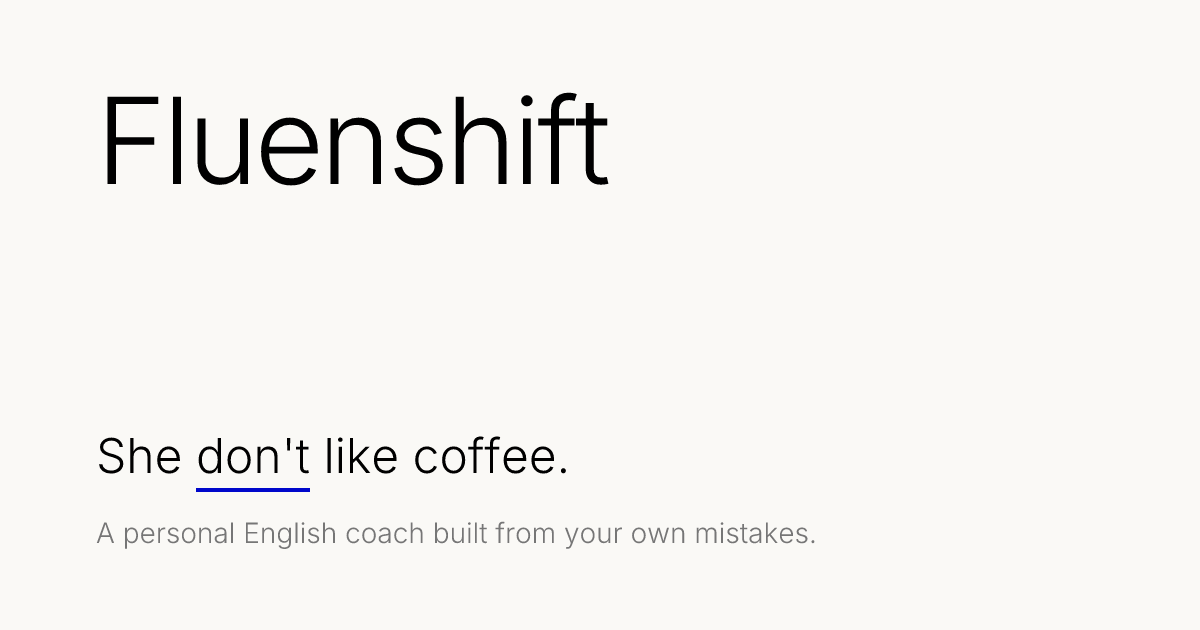
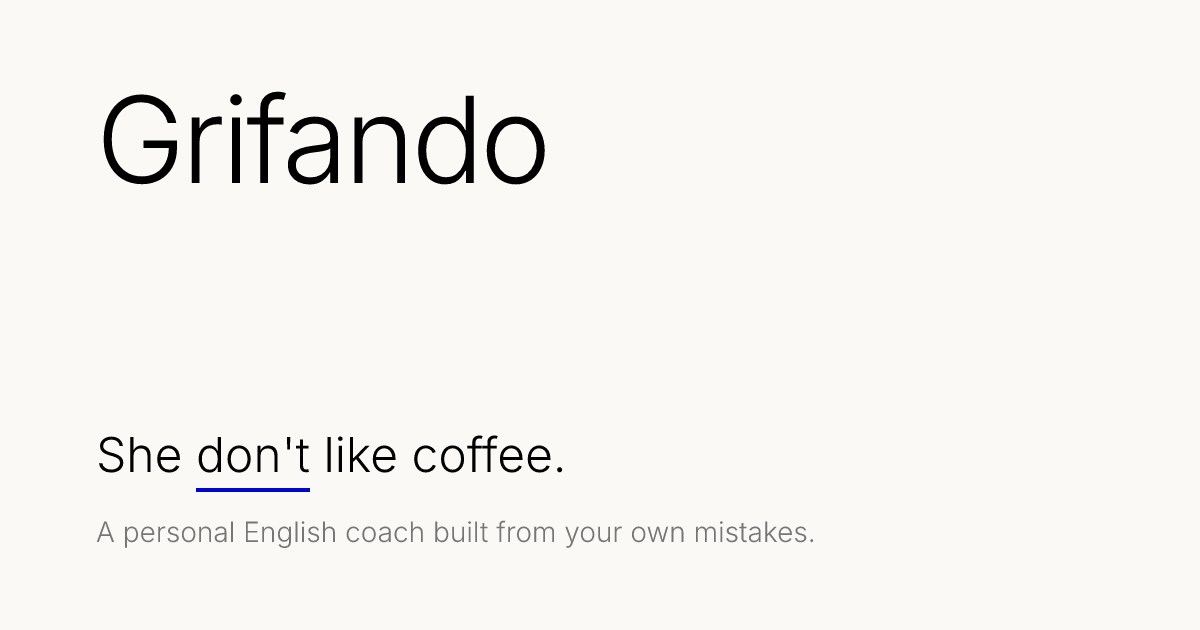
feat(web): name the product Grifando in the shell, the header and the link preview card
The shell's title and metadata, the header link, the Academy and privacy copy, the card's alt text and the Open Graph card say Grifando (ADR 0045). The card keeps ADR 0040's layout with the new name and no glyph.

diff --git a/apps/web/index.html b/apps/web/index.html
@@ -3,22 +3,23 @@
   <head>
     <meta charset="UTF-8" />
     <meta name="viewport" content="width=device-width, initial-scale=1.0" />
-    <title>Fluenshift</title>
-    <!-- Grifando's metadata (src/app/layout.tsx, 74dbb9f) with Fluenshift's name. The hosted
-         server adds the Open Graph card's tags at its public origin (docs/adr/0040). -->
+    <title>Grifando</title>
+    <!-- Old Grifando's metadata (src/app/layout.tsx, 74dbb9f), under the product's name
+         (docs/adr/0045). The hosted server adds the Open Graph card's tags at its public origin
+         (docs/adr/0040). -->
     <meta
       name="description"
       content="Personal writing coach for English, built from your own mistakes."
     />
     <meta property="og:type" content="website" />
-    <meta property="og:site_name" content="Fluenshift" />
-    <meta property="og:title" content="Fluenshift" />
+    <meta property="og:site_name" content="Grifando" />
+    <meta property="og:title" content="Grifando" />
     <meta
       property="og:description"
       content="Personal writing coach for English, built from your own mistakes."
     />
     <meta name="twitter:card" content="summary_large_image" />
-    <meta name="twitter:title" content="Fluenshift" />
+    <meta name="twitter:title" content="Grifando" />
     <meta
       name="twitter:description"
       content="Personal writing coach for English, built from your own mistakes."

diff --git a/apps/web/src/routes/academy.tsx b/apps/web/src/routes/academy.tsx
@@ -40,8 +40,8 @@ const AcademyPage = () => {
           style={{ animationDelay: "80ms" }}
         >
           <p className="prose-serif text-iron text-lg">
-            Write anything. Fluenshift marks each slip, explains it, and turns
-            it into practice built from your own writing.
+            Write anything. Grifando marks each slip, explains it, and turns it
+            into practice built from your own writing.
           </p>
           <div className="space-y-4">
             <div className="flex flex-wrap gap-2">

diff --git a/apps/web/src/components/header.tsx b/apps/web/src/components/header.tsx
@@ -42,7 +42,7 @@ const Header = () => {
     <header className="bg-background/95 border-b">
       <div className="mx-auto flex w-full max-w-[88rem] flex-wrap items-center gap-x-8 gap-y-3 px-4 py-4 sm:px-6">
         <Link className="text-base font-semibold tracking-tight" to="/">
-          Fluenshift
+          Grifando
         </Link>
         <div className="ml-auto sm:order-last">
           <FocusMusic />

diff --git a/apps/web/src/routes/privacy.tsx b/apps/web/src/routes/privacy.tsx
@@ -30,7 +30,7 @@ const Block = ({
 const PrivacyPage = () => (
   <PageShell>
     <PageHeader
-      description="No sign-up, no email. Here is what Fluenshift keeps, what it sends out, and how to wipe it."
+      description="No sign-up, no email. Here is what Grifando keeps, what it sends out, and how to wipe it."
       title="Privacy"
     />
 

diff --git a/apps/server/src/site-files.ts b/apps/server/src/site-files.ts
@@ -17,7 +17,7 @@ export const SITE_FILE_PATHS: ReadonlySet<string> = new Set([
 ]);
 
 const OG_IMAGE_ALT =
-  "Fluenshift — a personal English coach built from your own mistakes";
+  "Grifando — a personal English coach built from your own mistakes";
 
 const escapeAttribute = (value: string): string =>
   value

diff --git a/docs/product/ASSET-LICENSES.md b/docs/product/ASSET-LICENSES.md
@@ -4,8 +4,8 @@ QR-08: every bundled font, icon and visual asset has a documented license. The p
 bundle contains the font files below, no logos, and two images: the Open Graph card that link
 previews load (ADR 0040), and the hand-drawn arrow of the Academy's hero note, an inline SVG. It
 makes no third-party runtime request until the Learner opens Focus Music, which loads the Spotify
-or YouTube player they chose (ADR 0039). Grifando's three faces are served by the build itself,
-latin only (ADR 0009); graphs are CSS.
+or YouTube player they chose (ADR 0039). Old Grifando's three faces are served by the build
+itself, latin only (ADR 0009); graphs are CSS.
 
 | Asset | Source | Version | License |
 | --- | --- | --- | --- |
@@ -16,9 +16,9 @@ latin only (ADR 0009); graphs are CSS.
 | Utility CSS | [`tailwindcss`](https://github.com/tailwindlabs/tailwindcss) | 4.3.5 | MIT |
 | Toast component, CSS, embedded status icons | [`sonner`](https://github.com/emilkowalski/sonner) | 2.0.8 | MIT |
 | Dialog, popover and button primitives | [`@base-ui/react`](https://github.com/mui/base-ui) | 1.9.0 | MIT |
-| Palette, shapes and type scale | Grifando's `src/app/globals.css` (ADR 0009), adapted in `packages/ui/src/styles/globals.css` | 74dbb9f | MIT, the owners' own work |
-| Hero note arrow, inline SVG in `apps/web/src/features/academy/hero-note.tsx` | Grifando's `src/components/home/HeroNote.tsx` | 74dbb9f | MIT, the owners' own work |
-| Open Graph card, `apps/web/public/og-image.png` | Grifando's `src/app/opengraph-image.tsx` (ADR 0040), with Fluenshift's name, drawn in Inter Light from Grifando's `src/app/fonts/` | 74dbb9f | The card: MIT, the owners' own work. Inter: SIL OFL 1.1, which leaves images made with the font free |
+| Palette, shapes and type scale | Old Grifando's `src/app/globals.css` (ADR 0009), adapted in `packages/ui/src/styles/globals.css` | 74dbb9f | MIT, the owners' own work |
+| Hero note arrow, inline SVG in `apps/web/src/features/academy/hero-note.tsx` | Old Grifando's `src/components/home/HeroNote.tsx` | 74dbb9f | MIT, the owners' own work |
+| Open Graph card, `apps/web/public/og-image.png` | Old Grifando's `src/app/opengraph-image.tsx` (ADR 0040), with the product's name and no glyph (ADR 0045), drawn in Inter Light from its `src/app/fonts/` | 74dbb9f | The card: MIT, the owners' own work. Inter: SIL OFL 1.1, which leaves images made with the font free |
 
 All permit redistribution with the copyright and license notice retained.
 
